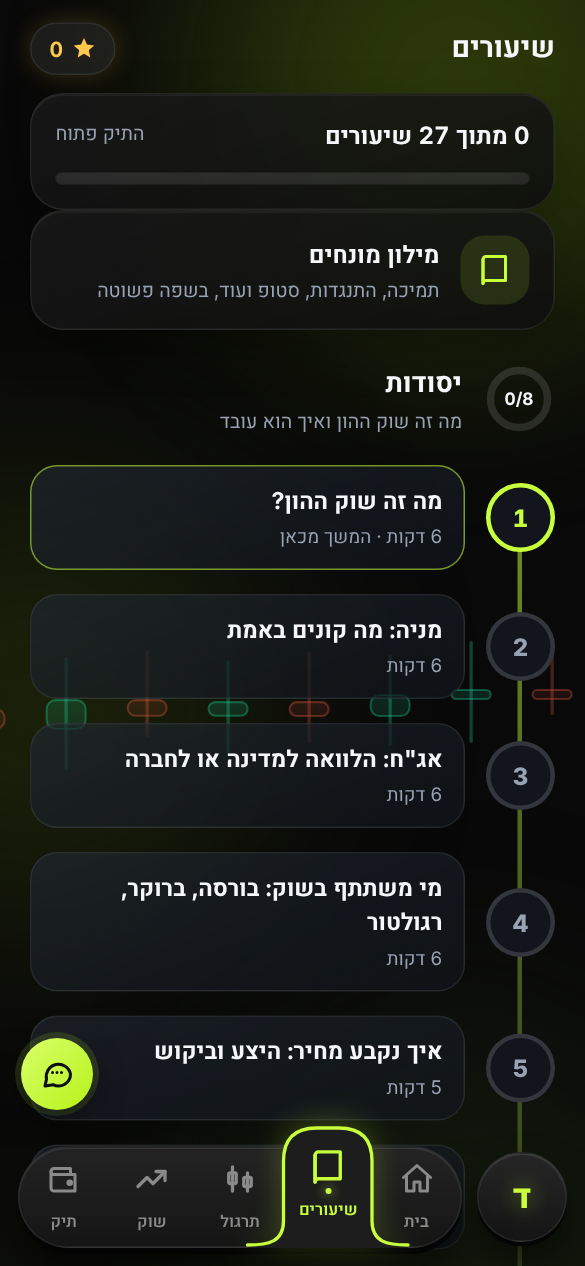
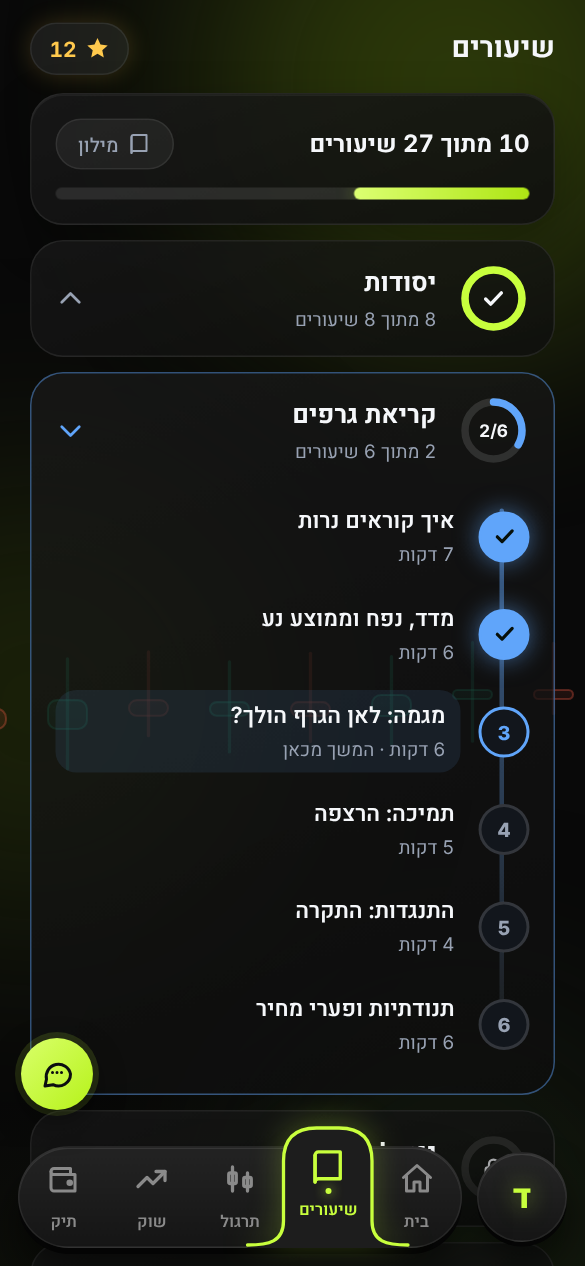
Calmer lessons (accordion modules) and practice (level tabs, case cards with chart preview)
Claude-Session: https://claude.ai/code/session_011m9Yf8x73arYD9GUop3Civ

diff --git a/capital-market-app/review/app.html b/capital-market-app/review/app.html
@@ -953,6 +953,48 @@ bdi{unicode-bidi:isolate}
 .replay{margin-top:14px;text-align:start}.replay>b{display:block;margin-bottom:8px}.replay .chart{width:100%;height:auto;display:block}
 .rlegend{display:flex;gap:14px;flex-wrap:wrap;font-size:12px;color:var(--muted);margin-top:6px}
 
+/* ===== calmer lessons and practice screens ===== */
+.pc-row{display:flex;justify-content:space-between;align-items:center;gap:10px}
+.prog-card .chip,.pc-row .chip{display:inline-flex;gap:6px;align-items:center;height:34px;padding:0 14px;font-size:13px}.pc-row .chip svg{width:16px;height:16px}
+.mods{margin-top:6px}
+.mod{margin-top:10px;border-radius:22px;background:linear-gradient(160deg,rgba(26,26,26,.7),rgba(14,14,14,.74));border:1px solid var(--line);overflow:hidden;transition:border-color .3s}
+.mod.open{border-color:color-mix(in srgb,var(--mc) 45%,transparent)}
+.mod-h{display:flex;align-items:center;gap:14px;width:100%;text-align:start;padding:14px 16px;margin:0}
+.mod-h .mh-t{flex:1;min-width:0}.mod-h .mh-t b{display:block;font-size:17px}.mod-h .mh-t span{font-size:12.5px;color:var(--muted)}
+.mod-h .chev{flex:none;width:20px;height:20px;color:var(--muted);transition:transform .3s;transform:rotate(90deg);font-style:normal}.mod-h .chev svg{width:20px;height:20px}
+.mod.open .chev{transform:rotate(-90deg);color:var(--mc)}.mod.locked .chev{opacity:.0}
+.mod .mod-h>div:last-child{opacity:1}
+.mod .path{padding:0 16px 14px;animation:rise .35s cubic-bezier(.2,.8,.2,1) both}.mod .path[hidden]{display:none}
+.mod .path::before{inset-inline-start:33px;top:14px;bottom:30px}
+.mod .pn{padding:5px 0;gap:12px;animation:none}
+.mod .pn>i{width:34px;height:34px;font-size:13px;border-width:2px}.mod .pn>i svg{width:17px;height:17px}
+.mod .pn>div{background:none;border:0;padding:6px 4px}
+.mod .pn>div b{font-size:15px;font-weight:600}
+.mod .pn.next>div{background:color-mix(in srgb,var(--mc) 10%,transparent);border-radius:14px;padding:6px 10px}
+.sumcard .btn{width:100%}
+.how1{font-size:13.5px;line-height:1.65;margin:12px 4px 0}
+.weak2{display:flex;justify-content:space-between;align-items:center;gap:10px;margin-top:12px;padding:10px 14px;border-radius:16px;background:rgba(255,201,77,.08);border:1px solid rgba(255,201,77,.22);font-size:13.5px}
+.weak2 b{color:var(--gold)}.weak2 .link{flex:none}
+details.skills{margin-top:12px;padding:12px 16px}details.skills summary{cursor:pointer;font-weight:700;font-size:15px;list-style:none}
+details.skills summary::-webkit-details-marker{display:none}details.skills[open] summary{margin-bottom:8px}
+.seg{display:flex;gap:6px;margin-top:18px;padding:4px;border-radius:18px;background:rgba(255,255,255,.05);border:1px solid var(--line)}
+.seg button{flex:1;display:flex;flex-direction:column;align-items:center;gap:1px;padding:9px 4px;border-radius:14px;color:var(--muted);transition:background .25s,color .25s}
+.seg button b{font-size:13.5px;font-weight:700}.seg button span{font-size:11px;direction:ltr}
+.seg button.on{background:var(--lime);color:#0b0d10;box-shadow:0 4px 14px rgba(200,255,61,.25)}
+.lvd{font-size:13px;margin:10px 4px 12px}
+.cgrid{display:grid;grid-template-columns:1fr 1fr;gap:12px}.cgrid.swap{animation:rise .4s cubic-bezier(.2,.8,.2,1)}
+.ccard{position:relative;display:flex;flex-direction:column;gap:6px;padding:12px 14px 12px;text-align:start;border-radius:22px;overflow:hidden;background:linear-gradient(160deg,rgba(30,34,28,.8),rgba(14,14,14,.88));border:1px solid var(--line);transition:transform .18s,border-color .25s}
+.ccard:active{transform:scale(.97)}
+.ccard.fresh{border-color:rgba(200,255,61,.35)}.ccard.perfect{border-color:rgba(200,255,61,.6);box-shadow:0 0 22px rgba(200,255,61,.14)}
+.cc-sp{width:100%;height:46px;display:block;margin-bottom:2px}
+.cc-t{display:flex;align-items:center;justify-content:space-between;gap:6px}.cc-t b{font-size:16px}
+.cc-t em{font-style:normal;font-size:11px;font-weight:700;padding:3px 9px;border-radius:999px;background:rgba(255,255,255,.08);color:var(--muted)}
+.ccard.fresh .cc-t em{background:rgba(200,255,61,.16);color:var(--lime)}.ccard.perfect .cc-t em{background:var(--lime);color:#0b0d10}
+.cc-m{display:flex;align-items:center;justify-content:space-between;font-size:12px;color:var(--muted)}
+.cc-dif{letter-spacing:2px;color:var(--lime);font-size:9px;direction:ltr}.cc-st{color:var(--lime);letter-spacing:1px;direction:ltr}
+
+details.skills summary{display:flex;justify-content:space-between;align-items:center}details.skills summary::after{content:'';width:8px;height:8px;border-inline-end:2px solid var(--muted);border-bottom:2px solid var(--muted);transform:rotate(45deg);transition:transform .25s}details.skills[open] summary::after{transform:rotate(-135deg)}
+
 body{background:#0b0d10}
 @media (min-width:481px){body{background:#d9dde3}}
 </style>
@@ -3569,16 +3611,22 @@ function lessonCard(l) {
 
 /* ===== lessons: a learning path with modules ===== */
 const modRing = (frac, col) => { const R = 19, C = 2 * Math.PI * R; return `<svg viewBox="0 0 48 48" width="48" height="48"><circle cx="24" cy="24" r="${R}" fill="none" stroke="rgba(255,255,255,.12)" stroke-width="5"/><circle cx="24" cy="24" r="${R}" fill="none" stroke="${col}" stroke-width="5" stroke-linecap="round" stroke-dasharray="${C}" stroke-dashoffset="${C * (1 - frac)}" transform="rotate(-90 24 24)"/></svg>`; };
+let lessonsOpenMod = null;
 screens.lessons = () => {
-  const done = lessonsDone(), d = done.length, nextId = (LESSONS.find(l => !done.includes(l.id)) || {}).id;
+  const done = lessonsDone(), d = done.length, nextL = LESSONS.find(l => !done.includes(l.id)), nextId = (nextL || {}).id;
   const mods = MODULES.map(m => ({ ...m, ls: LESSONS.filter(l => l.module === m.id) })).filter(m => m.ls.length);
+  const openId = lessonsOpenMod || (nextL ? nextL.module : mods[0].id);
   scr.innerHTML = `<div class="anim"><div class="top"><h2>שיעורים</h2><span class="pill gold">${ic.star}${A().stars}</span></div>
-    <div class="card prog-card"><div style="display:flex;justify-content:space-between"><b>${d} מתוך ${LESSONS.length} שיעורים</b><span class="muted" style="font-size:13px">${portfolioOpen() ? 'התיק פתוח' : 'התיק נפתח בסיום'}</span></div>
+    <div class="card prog-card"><div class="pc-row"><b>${d} מתוך ${LESSONS.length} שיעורים</b><button class="chip" data-go="glossary">${ic.book}<span>מילון</span></button></div>
       <div class="bar" style="margin-top:12px"><i style="width:${Math.round(d / LESSONS.length * 100)}%"></i></div></div>
-    <button class="card gl-link" data-go="glossary"><div>${ic.book}</div><div><b>מילון מונחים</b><span class="muted">תמיכה, התנגדות, סטופ ועוד, בשפה פשוטה</span></div></button>
-    ${mods.map((m, mi) => { const n = m.ls.filter(l => done.includes(l.id)).length, lk = !modOpen(m), prev = mods[mi - 1]; return `<div class="mod${lk ? ' locked' : ''}" style="--mc:${m.color}">
-      <div class="mod-h"><div class="mod-ring">${modRing(n / m.ls.length, m.color)}<b>${lk ? ic.lock : n + '/' + m.ls.length}</b></div><div><b>${m.title}</b><span>${lk ? 'נפתח אחרי שמסיימים את ' + prev.title : m.sub}</span></div></div>
-      <div class="path">${m.ls.map((l, i) => { const dn = done.includes(l.id); return lk && !dn ? `<div class="pn locked" style="animation-delay:${i * .05}s"><i>${ic.lock}</i><div><b>${l.title}</b><span>${l.min} דקות</span></div></div>` : `<button class="pn${dn ? ' done' : ''}${l.id === nextId ? ' next' : ''}" data-go="lesson" data-arg="${l.id}" style="animation-delay:${i * .05}s"><i>${dn ? ic.check : i + 1}</i><div><b>${l.title}</b><span>${l.min} דקות${l.id === nextId ? ' · המשך מכאן' : ''}</span></div></button>`; }).join('')}</div></div>`; }).join('')}</div>`;
+    <div class="mods">${mods.map((m, mi) => { const n = m.ls.filter(l => done.includes(l.id)).length, lk = !modOpen(m), prev = mods[mi - 1], open = !lk && m.id === openId; return `<div class="mod${lk ? ' locked' : ''}${open ? ' open' : ''}" data-mod="${m.id}" style="--mc:${m.color}">
+      <button class="mod-h" data-mod-h="${m.id}"><div class="mod-ring">${modRing(n / m.ls.length, m.color)}<b>${lk ? ic.lock : n === m.ls.length ? ic.check : n + '/' + m.ls.length}</b></div><div class="mh-t"><b>${m.title}</b><span>${lk ? 'נפתח אחרי ' + prev.title : n + ' מתוך ' + m.ls.length + ' שיעורים'}</span></div><i class="chev">${ic.back}</i></button>
+      <div class="path"${open ? '' : ' hidden'}>${m.ls.map((l, i) => { const dn = done.includes(l.id); return `<button class="pn${dn ? ' done' : ''}${l.id === nextId ? ' next' : ''}" data-go="lesson" data-arg="${l.id}"><i>${dn ? ic.check : i + 1}</i><div><b>${l.title}</b><span>${l.min} דקות${l.id === nextId ? ' · המשך מכאן' : ''}</span></div></button>`; }).join('')}</div></div>`; }).join('')}</div></div>`;
+  $$('[data-mod-h]').forEach(h => h.onclick = () => {
+    const box = h.closest('.mod'); if (box.classList.contains('locked')) { toast('הנושא ייפתח אחרי שמסיימים את הנושא הקודם'); return; }
+    const wasOpen = box.classList.contains('open'); lessonsOpenMod = wasOpen ? '-' : box.dataset.mod;
+    $$('.mod').forEach(x => { const o = !wasOpen && x === box; x.classList.toggle('open', o); const pt = $('.path', x); if (pt) pt.hidden = !o; });
+  });
 };
 screens.lesson = (id) => {
   const L = LESSONS.find(x => x.id === id) || LESSONS[0];
@@ -4147,24 +4195,40 @@ function trackSkills(ac, checks) {
   ac.skills = ac.skills || {};
   checks.forEach(c => { if (!c.term || !SKILLS[c.term]) return; const k = ac.skills[c.term] = ac.skills[c.term] || { ok: 0, n: 0 }; k.n++; if (c.ok) k.ok++; });
 }
+let practiceLevel = 0;
+function caseCard(s, i, d) {
+  const stars = d[s.id] || 0, c = s.raw.c.slice(s.raw.di - 59, s.raw.di + 1).map(r => r[4]), sp = sparkPath(c, 150, 46), id = 'cs' + i;
+  const chip = stars === 3 ? 'מושלם' : stars > 0 ? 'אפשר לשפר' : 'חדש';
+  return `<button class="ccard${stars === 3 ? ' perfect' : ''}${stars === 0 ? ' fresh' : ''}" data-go="practice" data-arg="${i}">
+    <svg class="cc-sp" viewBox="0 0 150 46" preserveAspectRatio="none" aria-hidden="true"><defs><linearGradient id="${id}" x1="0" y1="0" x2="0" y2="1"><stop offset="0" stop-color="#c8ff3d" stop-opacity=".32"/><stop offset="1" stop-color="#c8ff3d" stop-opacity="0"/></linearGradient></defs><path d="${sp.area}" fill="url(#${id})"/><path d="${sp.d}" fill="none" stroke="#c8ff3d" stroke-width="2" stroke-linecap="round" stroke-linejoin="round" vector-effect="non-scaling-stroke"/></svg>
+    <div class="cc-t"><b>מקרה ${i + 1}</b><em>${chip}</em></div>
+    <div class="cc-m"><span class="cc-dif" aria-label="רמה ${s.level}">${'●'.repeat(s.level)}${'○'.repeat(3 - s.level)}</span><span class="cc-st">${'★'.repeat(stars)}${'☆'.repeat(3 - stars)}</span></div></button>`;
+}
 screens.practiceHome = () => {
-  const ac = A(), d = ac.practiceDone, sk = ac.skills || {}, played = Object.keys(sk).length > 0;
+  const ac = A(), d = ac.practiceDone, sk = ac.skills || {};
   const total = SCEN.reduce((a, s) => a + (d[s.id] || 0), 0), max = SCEN.length * 3;
-  const rated = Object.entries(sk).filter(([, v]) => v.n >= 2).map(([k, v]) => [k, v.ok / v.n, v]).sort((a, b) => a[1] - b[1]);
+  const rated = Object.entries(sk).filter(([, v]) => v.n >= 2).map(([k, v]) => [k, v.ok / v.n]).sort((a, b) => a[1] - b[1]);
   const weak = rated.length && rated[0][1] < .75 ? rated[0] : null;
-  const nextCase = SCEN.findIndex(s => (d[s.id] || 0) < 3);
+  const nextCase = SCEN.findIndex(s => (d[s.id] || 0) < 3), played = Object.keys(sk).length > 0;
+  const lv = practiceLevel || (nextCase >= 0 ? SCEN[nextCase].level : 1);
   const skillBars = Object.entries(SKILLS).filter(([k]) => sk[k]).map(([k, [t]]) => { const v = sk[k], pc = Math.round(v.ok / v.n * 100); return `<div class="sk"><span>${t}</span><div class="bar"><i style="width:${pc}%"></i></div><b>${pc}%</b></div>`; }).join('');
-  scr.innerHTML = `<div class="anim"><div class="top"><h2>תרגול</h2><span class="pill gold">${ic.star}${A().stars}</span></div>
-    <div class="card prog-card"><div style="display:flex;justify-content:space-between"><b>${total} מתוך ${max} כוכבים</b><span class="muted" style="font-size:13px">${SCEN.filter(s => (d[s.id] || 0) > 0).length} מתוך ${SCEN.length} מקרים</span></div><div class="bar" style="margin-top:12px"><i style="width:${Math.round(total / max * 100)}%"></i></div></div>
-    ${played ? '' : `<div class="card howto"><b>איך זה עובד?</b><div class="how">${['רואים גרף אמיתי מהעבר, בלי לדעת איזה נכס זה', 'מחליטים אם לקנות או לחכות', 'אם קונים: בונים תוכנית צעד אחרי צעד', 'מריצים את הגרף ורואים מה קרה'].map((t, i) => `<div><i>${i + 1}</i><span>${t}</span></div>`).join('')}</div>
-      <span class="muted" style="font-size:13px;line-height:1.6">אין כאן כסף אמיתי. הנקודות והכוכבים הם על החשיבה שלכם ולא על המזל. לפעמים התשובה הנכונה היא לחכות.</span></div>`}
-    ${nextCase >= 0 ? `<button class="card rec" data-go="practice" data-arg="${nextCase}"><span class="eyebrow">${played ? 'המשך מכאן' : 'מתחילים כאן'}</span><b>מקרה ${nextCase + 1}</b><span class="muted">${LEVELS[SCEN[nextCase].level - 1].t} · ${d[SCEN[nextCase].id] ? 'כדאי לשפר את הציון' : 'עוד לא ניסיתם'}</span>${ic.back}</button>` : ''}
-    ${weak ? `<div class="card weak"><span class="eyebrow">כדאי לחזק</span><b>${SKILLS[weak[0]][0]}</b><span class="muted">הצלחתם ב-${Math.round(weak[1] * 100)}% מהפעמים. שיעור קצר יכול לעזור.</span><button class="btn ghost small" data-go="lesson" data-arg="${SKILLS[weak[0]][1]}">לשיעור</button></div>` : ''}
-    ${skillBars ? `<div class="card skills"><b>החוזקות שלכם</b>${skillBars}<span class="muted" style="font-size:12px">אחוז הפעמים שהחלק היה נכון, מכל המקרים שעשיתם.</span></div>` : ''}
-    ${LEVELS.map(lv => `<div class="sec2" style="margin-top:18px"><h3>${lv.t}</h3><span class="muted" style="font-size:13px">${lv.d}</span></div>
-      ${SCEN.map((s, i) => [s, i]).filter(([s]) => s.level === lv.n).map(([s, i]) => `<button class="les" data-go="practice" data-arg="${i}"><div class="ic" style="color:var(--lime)">${ic.chart}</div><div class="tx"><b>מקרה ${i + 1}</b><span>נכס X</span></div><span class="st" style="direction:ltr">${'★'.repeat(d[s.id] || 0)}${'☆'.repeat(3 - (d[s.id] || 0))}</span></button>`).join('')}`).join('')}
+  const grid = (n) => SCEN.map((s, i) => [s, i]).filter(([s]) => s.level === n).map(([s, i]) => caseCard(s, i, d)).join('');
+  scr.innerHTML = `<div class="anim"><div class="top"><h2>תרגול</h2><span class="pill gold">${ic.star}${ac.stars}</span></div>
+    <div class="card sumcard"><div class="pc-row"><b>${total} מתוך ${max} כוכבים</b><span class="muted" style="font-size:13px">${SCEN.filter(s => (d[s.id] || 0) > 0).length} מתוך ${SCEN.length} מקרים</span></div>
+      <div class="bar" style="margin:12px 0 14px"><i style="width:${Math.round(total / max * 100)}%"></i></div>
+      ${nextCase >= 0 ? `<button class="btn primary" data-go="practice" data-arg="${nextCase}">${played ? 'המשך: מקרה ' + (nextCase + 1) : 'מתחילים: מקרה 1'}</button>` : '<span class="muted">סיימתם את כל המקרים עם 3 כוכבים. כל הכבוד!</span>'}</div>
+    ${played ? '' : `<p class="muted how1">רואים גרף אמיתי מהעבר בלי לדעת איזה נכס זה, מחליטים אם לקנות או לחכות, ובונים תוכנית. אין כסף אמיתי, והכוכבים הם על החשיבה ולא על המזל.</p>`}
+    ${weak ? `<div class="weak2"><span>כדאי לחזק: <b>${SKILLS[weak[0]][0]}</b> (${Math.round(weak[1] * 100)}%)</span><button class="link" data-go="lesson" data-arg="${SKILLS[weak[0]][1]}">לשיעור</button></div>` : ''}
+    ${skillBars ? `<details class="card skills"><summary>החוזקות שלכם</summary>${skillBars}<span class="muted" style="font-size:12px">אחוז הפעמים שהחלק היה נכון, מכל המקרים שעשיתם.</span></details>` : ''}
+    <div class="seg" role="tablist">${LEVELS.map(l => `<button role="tab" class="${l.n === lv ? 'on' : ''}" data-lv="${l.n}"><b>${l.t}</b><span>${SCEN.filter(s => s.level === l.n && (d[s.id] || 0) === 3).length}/${SCEN.filter(s => s.level === l.n).length}</span></button>`).join('')}</div>
+    <p class="muted lvd" id="lvd">${LEVELS[lv - 1].d}</p>
+    <div class="cgrid" id="cgrid">${grid(lv)}</div>
     <p class="demo-note">נתוני שוק אמיתיים מהעבר. העבר לא מבטיח את העתיד. אין כאן המלצת השקעה.</p>
     <p class="demo-note">נתונים לבדיקה פרטית בלבד, לא להפצה.</p></div>`;
+  $$('.seg button').forEach(b => b.onclick = () => {
+    practiceLevel = +b.dataset.lv; $$('.seg button').forEach(x => x.classList.toggle('on', x === b));
+    $('#lvd').textContent = LEVELS[practiceLevel - 1].d; const g = $('#cgrid'); g.innerHTML = grid(practiceLevel); g.classList.remove('swap'); void g.offsetWidth; g.classList.add('swap');
+  });
 };
 
 /* ----- the exercise ----- */

diff --git a/capital-market-app/prototype/js/practice.js b/capital-market-app/prototype/js/practice.js
@@ -56,24 +56,40 @@ function trackSkills(ac, checks) {
   ac.skills = ac.skills || {};
   checks.forEach(c => { if (!c.term || !SKILLS[c.term]) return; const k = ac.skills[c.term] = ac.skills[c.term] || { ok: 0, n: 0 }; k.n++; if (c.ok) k.ok++; });
 }
+let practiceLevel = 0;
+function caseCard(s, i, d) {
+  const stars = d[s.id] || 0, c = s.raw.c.slice(s.raw.di - 59, s.raw.di + 1).map(r => r[4]), sp = sparkPath(c, 150, 46), id = 'cs' + i;
+  const chip = stars === 3 ? 'מושלם' : stars > 0 ? 'אפשר לשפר' : 'חדש';
+  return `<button class="ccard${stars === 3 ? ' perfect' : ''}${stars === 0 ? ' fresh' : ''}" data-go="practice" data-arg="${i}">
+    <svg class="cc-sp" viewBox="0 0 150 46" preserveAspectRatio="none" aria-hidden="true"><defs><linearGradient id="${id}" x1="0" y1="0" x2="0" y2="1"><stop offset="0" stop-color="#c8ff3d" stop-opacity=".32"/><stop offset="1" stop-color="#c8ff3d" stop-opacity="0"/></linearGradient></defs><path d="${sp.area}" fill="url(#${id})"/><path d="${sp.d}" fill="none" stroke="#c8ff3d" stroke-width="2" stroke-linecap="round" stroke-linejoin="round" vector-effect="non-scaling-stroke"/></svg>
+    <div class="cc-t"><b>מקרה ${i + 1}</b><em>${chip}</em></div>
+    <div class="cc-m"><span class="cc-dif" aria-label="רמה ${s.level}">${'●'.repeat(s.level)}${'○'.repeat(3 - s.level)}</span><span class="cc-st">${'★'.repeat(stars)}${'☆'.repeat(3 - stars)}</span></div></button>`;
+}
 screens.practiceHome = () => {
-  const ac = A(), d = ac.practiceDone, sk = ac.skills || {}, played = Object.keys(sk).length > 0;
+  const ac = A(), d = ac.practiceDone, sk = ac.skills || {};
   const total = SCEN.reduce((a, s) => a + (d[s.id] || 0), 0), max = SCEN.length * 3;
-  const rated = Object.entries(sk).filter(([, v]) => v.n >= 2).map(([k, v]) => [k, v.ok / v.n, v]).sort((a, b) => a[1] - b[1]);
+  const rated = Object.entries(sk).filter(([, v]) => v.n >= 2).map(([k, v]) => [k, v.ok / v.n]).sort((a, b) => a[1] - b[1]);
   const weak = rated.length && rated[0][1] < .75 ? rated[0] : null;
-  const nextCase = SCEN.findIndex(s => (d[s.id] || 0) < 3);
+  const nextCase = SCEN.findIndex(s => (d[s.id] || 0) < 3), played = Object.keys(sk).length > 0;
+  const lv = practiceLevel || (nextCase >= 0 ? SCEN[nextCase].level : 1);
   const skillBars = Object.entries(SKILLS).filter(([k]) => sk[k]).map(([k, [t]]) => { const v = sk[k], pc = Math.round(v.ok / v.n * 100); return `<div class="sk"><span>${t}</span><div class="bar"><i style="width:${pc}%"></i></div><b>${pc}%</b></div>`; }).join('');
-  scr.innerHTML = `<div class="anim"><div class="top"><h2>תרגול</h2><span class="pill gold">${ic.star}${A().stars}</span></div>
-    <div class="card prog-card"><div style="display:flex;justify-content:space-between"><b>${total} מתוך ${max} כוכבים</b><span class="muted" style="font-size:13px">${SCEN.filter(s => (d[s.id] || 0) > 0).length} מתוך ${SCEN.length} מקרים</span></div><div class="bar" style="margin-top:12px"><i style="width:${Math.round(total / max * 100)}%"></i></div></div>
-    ${played ? '' : `<div class="card howto"><b>איך זה עובד?</b><div class="how">${['רואים גרף אמיתי מהעבר, בלי לדעת איזה נכס זה', 'מחליטים אם לקנות או לחכות', 'אם קונים: בונים תוכנית צעד אחרי צעד', 'מריצים את הגרף ורואים מה קרה'].map((t, i) => `<div><i>${i + 1}</i><span>${t}</span></div>`).join('')}</div>
-      <span class="muted" style="font-size:13px;line-height:1.6">אין כאן כסף אמיתי. הנקודות והכוכבים הם על החשיבה שלכם ולא על המזל. לפעמים התשובה הנכונה היא לחכות.</span></div>`}
-    ${nextCase >= 0 ? `<button class="card rec" data-go="practice" data-arg="${nextCase}"><span class="eyebrow">${played ? 'המשך מכאן' : 'מתחילים כאן'}</span><b>מקרה ${nextCase + 1}</b><span class="muted">${LEVELS[SCEN[nextCase].level - 1].t} · ${d[SCEN[nextCase].id] ? 'כדאי לשפר את הציון' : 'עוד לא ניסיתם'}</span>${ic.back}</button>` : ''}
-    ${weak ? `<div class="card weak"><span class="eyebrow">כדאי לחזק</span><b>${SKILLS[weak[0]][0]}</b><span class="muted">הצלחתם ב-${Math.round(weak[1] * 100)}% מהפעמים. שיעור קצר יכול לעזור.</span><button class="btn ghost small" data-go="lesson" data-arg="${SKILLS[weak[0]][1]}">לשיעור</button></div>` : ''}
-    ${skillBars ? `<div class="card skills"><b>החוזקות שלכם</b>${skillBars}<span class="muted" style="font-size:12px">אחוז הפעמים שהחלק היה נכון, מכל המקרים שעשיתם.</span></div>` : ''}
-    ${LEVELS.map(lv => `<div class="sec2" style="margin-top:18px"><h3>${lv.t}</h3><span class="muted" style="font-size:13px">${lv.d}</span></div>
-      ${SCEN.map((s, i) => [s, i]).filter(([s]) => s.level === lv.n).map(([s, i]) => `<button class="les" data-go="practice" data-arg="${i}"><div class="ic" style="color:var(--lime)">${ic.chart}</div><div class="tx"><b>מקרה ${i + 1}</b><span>נכס X</span></div><span class="st" style="direction:ltr">${'★'.repeat(d[s.id] || 0)}${'☆'.repeat(3 - (d[s.id] || 0))}</span></button>`).join('')}`).join('')}
+  const grid = (n) => SCEN.map((s, i) => [s, i]).filter(([s]) => s.level === n).map(([s, i]) => caseCard(s, i, d)).join('');
+  scr.innerHTML = `<div class="anim"><div class="top"><h2>תרגול</h2><span class="pill gold">${ic.star}${ac.stars}</span></div>
+    <div class="card sumcard"><div class="pc-row"><b>${total} מתוך ${max} כוכבים</b><span class="muted" style="font-size:13px">${SCEN.filter(s => (d[s.id] || 0) > 0).length} מתוך ${SCEN.length} מקרים</span></div>
+      <div class="bar" style="margin:12px 0 14px"><i style="width:${Math.round(total / max * 100)}%"></i></div>
+      ${nextCase >= 0 ? `<button class="btn primary" data-go="practice" data-arg="${nextCase}">${played ? 'המשך: מקרה ' + (nextCase + 1) : 'מתחילים: מקרה 1'}</button>` : '<span class="muted">סיימתם את כל המקרים עם 3 כוכבים. כל הכבוד!</span>'}</div>
+    ${played ? '' : `<p class="muted how1">רואים גרף אמיתי מהעבר בלי לדעת איזה נכס זה, מחליטים אם לקנות או לחכות, ובונים תוכנית. אין כסף אמיתי, והכוכבים הם על החשיבה ולא על המזל.</p>`}
+    ${weak ? `<div class="weak2"><span>כדאי לחזק: <b>${SKILLS[weak[0]][0]}</b> (${Math.round(weak[1] * 100)}%)</span><button class="link" data-go="lesson" data-arg="${SKILLS[weak[0]][1]}">לשיעור</button></div>` : ''}
+    ${skillBars ? `<details class="card skills"><summary>החוזקות שלכם</summary>${skillBars}<span class="muted" style="font-size:12px">אחוז הפעמים שהחלק היה נכון, מכל המקרים שעשיתם.</span></details>` : ''}
+    <div class="seg" role="tablist">${LEVELS.map(l => `<button role="tab" class="${l.n === lv ? 'on' : ''}" data-lv="${l.n}"><b>${l.t}</b><span>${SCEN.filter(s => s.level === l.n && (d[s.id] || 0) === 3).length}/${SCEN.filter(s => s.level === l.n).length}</span></button>`).join('')}</div>
+    <p class="muted lvd" id="lvd">${LEVELS[lv - 1].d}</p>
+    <div class="cgrid" id="cgrid">${grid(lv)}</div>
     <p class="demo-note">נתוני שוק אמיתיים מהעבר. העבר לא מבטיח את העתיד. אין כאן המלצת השקעה.</p>
     <p class="demo-note">נתונים לבדיקה פרטית בלבד, לא להפצה.</p></div>`;
+  $$('.seg button').forEach(b => b.onclick = () => {
+    practiceLevel = +b.dataset.lv; $$('.seg button').forEach(x => x.classList.toggle('on', x === b));
+    $('#lvd').textContent = LEVELS[practiceLevel - 1].d; const g = $('#cgrid'); g.innerHTML = grid(practiceLevel); g.classList.remove('swap'); void g.offsetWidth; g.classList.add('swap');
+  });
 };
 
 /* ----- the exercise ----- */

diff --git a/capital-market-app/prototype/style.css b/capital-market-app/prototype/style.css
@@ -945,3 +945,45 @@ bdi{unicode-bidi:isolate}
 .sk{display:flex;align-items:center;gap:10px;margin:8px 0;font-size:13.5px}.sk span{flex:none;width:96px}.sk .bar{flex:1;margin:0}.sk b{flex:none;width:40px;text-align:end;font-size:13px}
 .replay{margin-top:14px;text-align:start}.replay>b{display:block;margin-bottom:8px}.replay .chart{width:100%;height:auto;display:block}
 .rlegend{display:flex;gap:14px;flex-wrap:wrap;font-size:12px;color:var(--muted);margin-top:6px}
+
+/* ===== calmer lessons and practice screens ===== */
+.pc-row{display:flex;justify-content:space-between;align-items:center;gap:10px}
+.prog-card .chip,.pc-row .chip{display:inline-flex;gap:6px;align-items:center;height:34px;padding:0 14px;font-size:13px}.pc-row .chip svg{width:16px;height:16px}
+.mods{margin-top:6px}
+.mod{margin-top:10px;border-radius:22px;background:linear-gradient(160deg,rgba(26,26,26,.7),rgba(14,14,14,.74));border:1px solid var(--line);overflow:hidden;transition:border-color .3s}
+.mod.open{border-color:color-mix(in srgb,var(--mc) 45%,transparent)}
+.mod-h{display:flex;align-items:center;gap:14px;width:100%;text-align:start;padding:14px 16px;margin:0}
+.mod-h .mh-t{flex:1;min-width:0}.mod-h .mh-t b{display:block;font-size:17px}.mod-h .mh-t span{font-size:12.5px;color:var(--muted)}
+.mod-h .chev{flex:none;width:20px;height:20px;color:var(--muted);transition:transform .3s;transform:rotate(90deg);font-style:normal}.mod-h .chev svg{width:20px;height:20px}
+.mod.open .chev{transform:rotate(-90deg);color:var(--mc)}.mod.locked .chev{opacity:.0}
+.mod .mod-h>div:last-child{opacity:1}
+.mod .path{padding:0 16px 14px;animation:rise .35s cubic-bezier(.2,.8,.2,1) both}.mod .path[hidden]{display:none}
+.mod .path::before{inset-inline-start:33px;top:14px;bottom:30px}
+.mod .pn{padding:5px 0;gap:12px;animation:none}
+.mod .pn>i{width:34px;height:34px;font-size:13px;border-width:2px}.mod .pn>i svg{width:17px;height:17px}
+.mod .pn>div{background:none;border:0;padding:6px 4px}
+.mod .pn>div b{font-size:15px;font-weight:600}
+.mod .pn.next>div{background:color-mix(in srgb,var(--mc) 10%,transparent);border-radius:14px;padding:6px 10px}
+.sumcard .btn{width:100%}
+.how1{font-size:13.5px;line-height:1.65;margin:12px 4px 0}
+.weak2{display:flex;justify-content:space-between;align-items:center;gap:10px;margin-top:12px;padding:10px 14px;border-radius:16px;background:rgba(255,201,77,.08);border:1px solid rgba(255,201,77,.22);font-size:13.5px}
+.weak2 b{color:var(--gold)}.weak2 .link{flex:none}
+details.skills{margin-top:12px;padding:12px 16px}details.skills summary{cursor:pointer;font-weight:700;font-size:15px;list-style:none}
+details.skills summary::-webkit-details-marker{display:none}details.skills[open] summary{margin-bottom:8px}
+.seg{display:flex;gap:6px;margin-top:18px;padding:4px;border-radius:18px;background:rgba(255,255,255,.05);border:1px solid var(--line)}
+.seg button{flex:1;display:flex;flex-direction:column;align-items:center;gap:1px;padding:9px 4px;border-radius:14px;color:var(--muted);transition:background .25s,color .25s}
+.seg button b{font-size:13.5px;font-weight:700}.seg button span{font-size:11px;direction:ltr}
+.seg button.on{background:var(--lime);color:#0b0d10;box-shadow:0 4px 14px rgba(200,255,61,.25)}
+.lvd{font-size:13px;margin:10px 4px 12px}
+.cgrid{display:grid;grid-template-columns:1fr 1fr;gap:12px}.cgrid.swap{animation:rise .4s cubic-bezier(.2,.8,.2,1)}
+.ccard{position:relative;display:flex;flex-direction:column;gap:6px;padding:12px 14px 12px;text-align:start;border-radius:22px;overflow:hidden;background:linear-gradient(160deg,rgba(30,34,28,.8),rgba(14,14,14,.88));border:1px solid var(--line);transition:transform .18s,border-color .25s}
+.ccard:active{transform:scale(.97)}
+.ccard.fresh{border-color:rgba(200,255,61,.35)}.ccard.perfect{border-color:rgba(200,255,61,.6);box-shadow:0 0 22px rgba(200,255,61,.14)}
+.cc-sp{width:100%;height:46px;display:block;margin-bottom:2px}
+.cc-t{display:flex;align-items:center;justify-content:space-between;gap:6px}.cc-t b{font-size:16px}
+.cc-t em{font-style:normal;font-size:11px;font-weight:700;padding:3px 9px;border-radius:999px;background:rgba(255,255,255,.08);color:var(--muted)}
+.ccard.fresh .cc-t em{background:rgba(200,255,61,.16);color:var(--lime)}.ccard.perfect .cc-t em{background:var(--lime);color:#0b0d10}
+.cc-m{display:flex;align-items:center;justify-content:space-between;font-size:12px;color:var(--muted)}
+.cc-dif{letter-spacing:2px;color:var(--lime);font-size:9px;direction:ltr}.cc-st{color:var(--lime);letter-spacing:1px;direction:ltr}
+
+details.skills summary{display:flex;justify-content:space-between;align-items:center}details.skills summary::after{content:'';width:8px;height:8px;border-inline-end:2px solid var(--muted);border-bottom:2px solid var(--muted);transform:rotate(45deg);transition:transform .25s}details.skills[open] summary::after{transform:rotate(-135deg)}

diff --git a/capital-market-app/prototype/js/screens1.js b/capital-market-app/prototype/js/screens1.js
@@ -238,16 +238,22 @@ function lessonCard(l) {
 
 /* ===== lessons: a learning path with modules ===== */
 const modRing = (frac, col) => { const R = 19, C = 2 * Math.PI * R; return `<svg viewBox="0 0 48 48" width="48" height="48"><circle cx="24" cy="24" r="${R}" fill="none" stroke="rgba(255,255,255,.12)" stroke-width="5"/><circle cx="24" cy="24" r="${R}" fill="none" stroke="${col}" stroke-width="5" stroke-linecap="round" stroke-dasharray="${C}" stroke-dashoffset="${C * (1 - frac)}" transform="rotate(-90 24 24)"/></svg>`; };
+let lessonsOpenMod = null;
 screens.lessons = () => {
-  const done = lessonsDone(), d = done.length, nextId = (LESSONS.find(l => !done.includes(l.id)) || {}).id;
+  const done = lessonsDone(), d = done.length, nextL = LESSONS.find(l => !done.includes(l.id)), nextId = (nextL || {}).id;
   const mods = MODULES.map(m => ({ ...m, ls: LESSONS.filter(l => l.module === m.id) })).filter(m => m.ls.length);
+  const openId = lessonsOpenMod || (nextL ? nextL.module : mods[0].id);
   scr.innerHTML = `<div class="anim"><div class="top"><h2>שיעורים</h2><span class="pill gold">${ic.star}${A().stars}</span></div>
-    <div class="card prog-card"><div style="display:flex;justify-content:space-between"><b>${d} מתוך ${LESSONS.length} שיעורים</b><span class="muted" style="font-size:13px">${portfolioOpen() ? 'התיק פתוח' : 'התיק נפתח בסיום'}</span></div>
+    <div class="card prog-card"><div class="pc-row"><b>${d} מתוך ${LESSONS.length} שיעורים</b><button class="chip" data-go="glossary">${ic.book}<span>מילון</span></button></div>
       <div class="bar" style="margin-top:12px"><i style="width:${Math.round(d / LESSONS.length * 100)}%"></i></div></div>
-    <button class="card gl-link" data-go="glossary"><div>${ic.book}</div><div><b>מילון מונחים</b><span class="muted">תמיכה, התנגדות, סטופ ועוד, בשפה פשוטה</span></div></button>
-    ${mods.map((m, mi) => { const n = m.ls.filter(l => done.includes(l.id)).length, lk = !modOpen(m), prev = mods[mi - 1]; return `<div class="mod${lk ? ' locked' : ''}" style="--mc:${m.color}">
-      <div class="mod-h"><div class="mod-ring">${modRing(n / m.ls.length, m.color)}<b>${lk ? ic.lock : n + '/' + m.ls.length}</b></div><div><b>${m.title}</b><span>${lk ? 'נפתח אחרי שמסיימים את ' + prev.title : m.sub}</span></div></div>
-      <div class="path">${m.ls.map((l, i) => { const dn = done.includes(l.id); return lk && !dn ? `<div class="pn locked" style="animation-delay:${i * .05}s"><i>${ic.lock}</i><div><b>${l.title}</b><span>${l.min} דקות</span></div></div>` : `<button class="pn${dn ? ' done' : ''}${l.id === nextId ? ' next' : ''}" data-go="lesson" data-arg="${l.id}" style="animation-delay:${i * .05}s"><i>${dn ? ic.check : i + 1}</i><div><b>${l.title}</b><span>${l.min} דקות${l.id === nextId ? ' · המשך מכאן' : ''}</span></div></button>`; }).join('')}</div></div>`; }).join('')}</div>`;
+    <div class="mods">${mods.map((m, mi) => { const n = m.ls.filter(l => done.includes(l.id)).length, lk = !modOpen(m), prev = mods[mi - 1], open = !lk && m.id === openId; return `<div class="mod${lk ? ' locked' : ''}${open ? ' open' : ''}" data-mod="${m.id}" style="--mc:${m.color}">
+      <button class="mod-h" data-mod-h="${m.id}"><div class="mod-ring">${modRing(n / m.ls.length, m.color)}<b>${lk ? ic.lock : n === m.ls.length ? ic.check : n + '/' + m.ls.length}</b></div><div class="mh-t"><b>${m.title}</b><span>${lk ? 'נפתח אחרי ' + prev.title : n + ' מתוך ' + m.ls.length + ' שיעורים'}</span></div><i class="chev">${ic.back}</i></button>
+      <div class="path"${open ? '' : ' hidden'}>${m.ls.map((l, i) => { const dn = done.includes(l.id); return `<button class="pn${dn ? ' done' : ''}${l.id === nextId ? ' next' : ''}" data-go="lesson" data-arg="${l.id}"><i>${dn ? ic.check : i + 1}</i><div><b>${l.title}</b><span>${l.min} דקות${l.id === nextId ? ' · המשך מכאן' : ''}</span></div></button>`; }).join('')}</div></div>`; }).join('')}</div></div>`;
+  $$('[data-mod-h]').forEach(h => h.onclick = () => {
+    const box = h.closest('.mod'); if (box.classList.contains('locked')) { toast('הנושא ייפתח אחרי שמסיימים את הנושא הקודם'); return; }
+    const wasOpen = box.classList.contains('open'); lessonsOpenMod = wasOpen ? '-' : box.dataset.mod;
+    $$('.mod').forEach(x => { const o = !wasOpen && x === box; x.classList.toggle('open', o); const pt = $('.path', x); if (pt) pt.hidden = !o; });
+  });
 };
 screens.lesson = (id) => {
   const L = LESSONS.find(x => x.id === id) || LESSONS[0];
